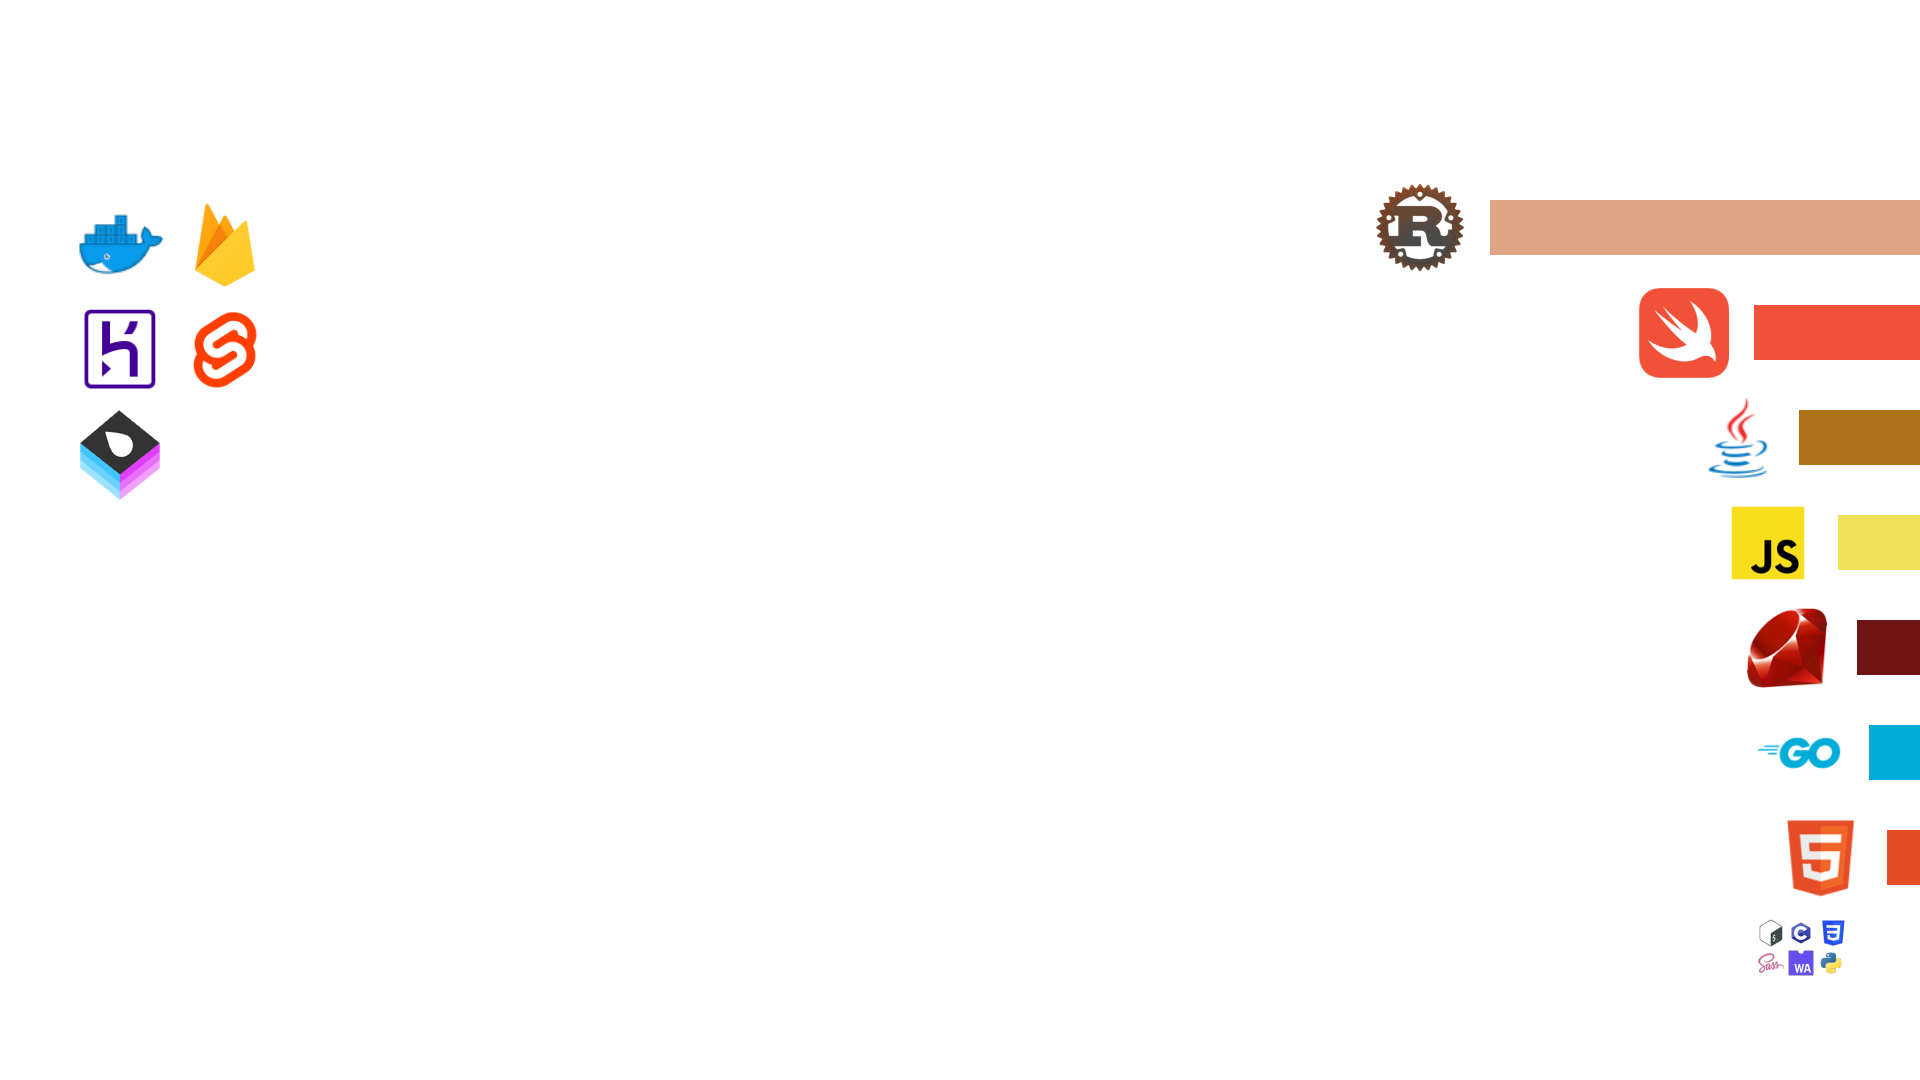
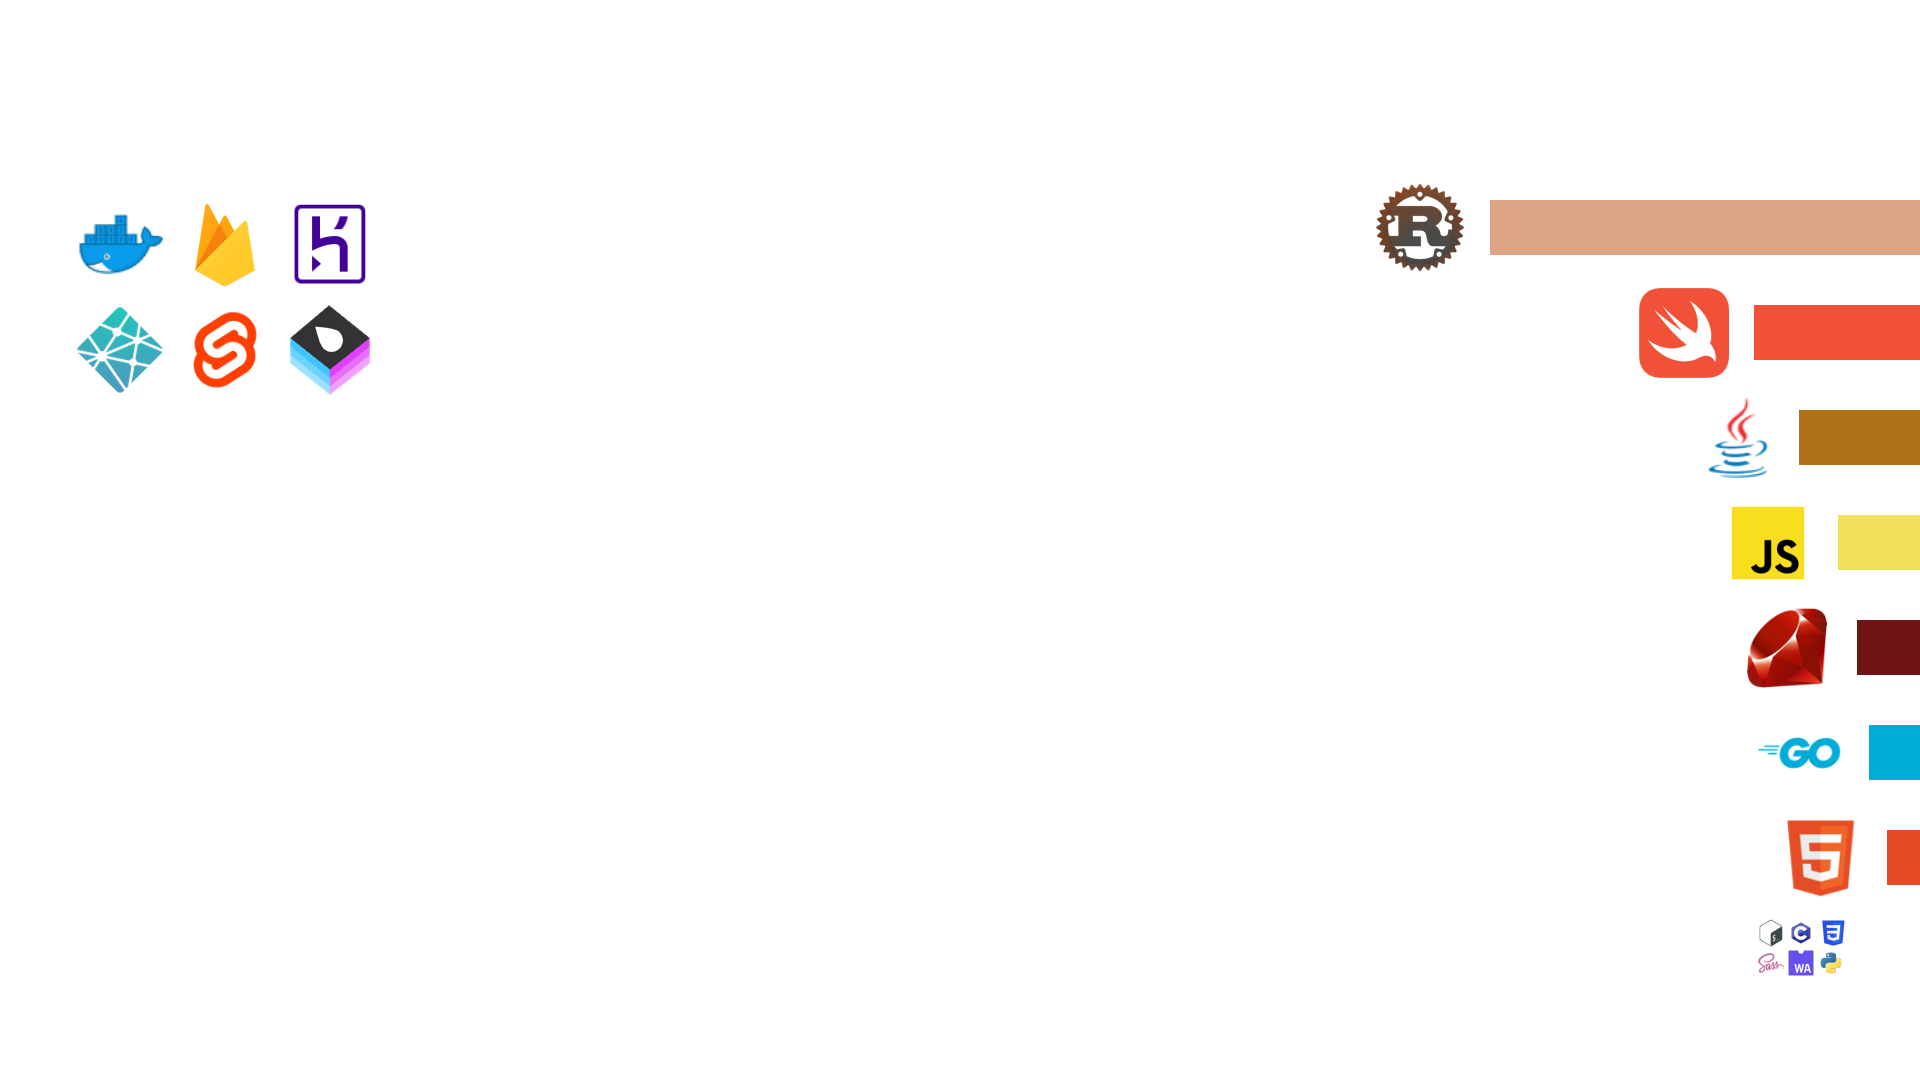
added netlify to frameworks

Changed region(s): [[0.0312, 0.275, 0.0938, 0.4583], [0.125, 0.1833, 0.2188, 0.3667]]

diff --git a/main/main.go b/main/main.go
@@ -153,8 +153,6 @@ func drawLanguages(img *image.RGBA, fontCtx *freetype.Context) {
 			// TODO: #2 add logo width and height. height will be = logoSize while width will be changed to accomodate
 			//	     more languages so that there are only 2 rows of languages
 			logoImg = getMultiLangImage(_langs, logoSize)
-
-			jimage.ExportImage(logoImg, "test.png")
 		} else {
 			logoImg = getLangLogo(lang)
 		}
@@ -208,8 +206,6 @@ func getMultiLangImage(langs []string, imgSize int) *image.RGBA {
 		}
 	}
 
-	jimage.ExportImage(dst, "test.png")
-
 	return dst
 }
 
@@ -225,9 +221,9 @@ func drawFrameworks(img *image.RGBA, fontCtx *freetype.Context) {
 	}
 
 	amtOfFramworks := len(files)
-	const maxFrameworkRows int = 4
+	const maxFrameworkRows int = 3
 
-	framworksPerRow := int(math.Ceil(math.Max(float64(amtOfFramworks)/4, 2)))
+	framworksPerRow := int(math.Ceil(math.Max(float64(amtOfFramworks)/float64(maxFrameworkRows), 2)))
 
 	row := 0
 	i := 0
